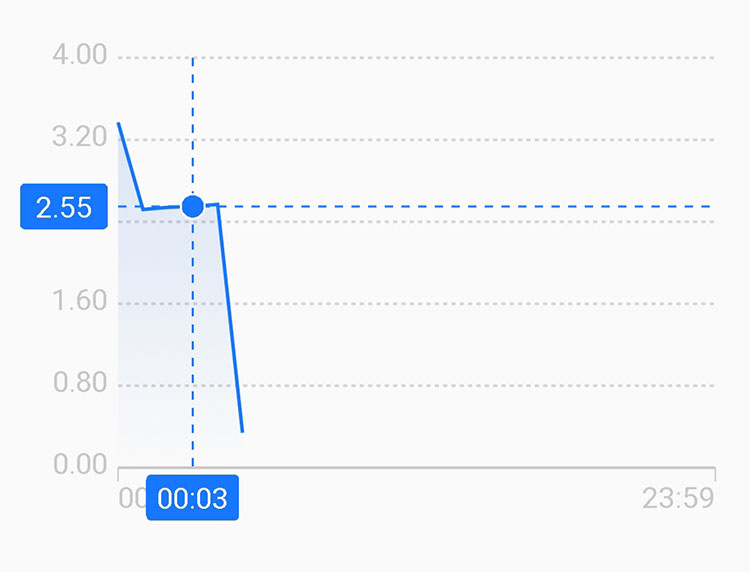
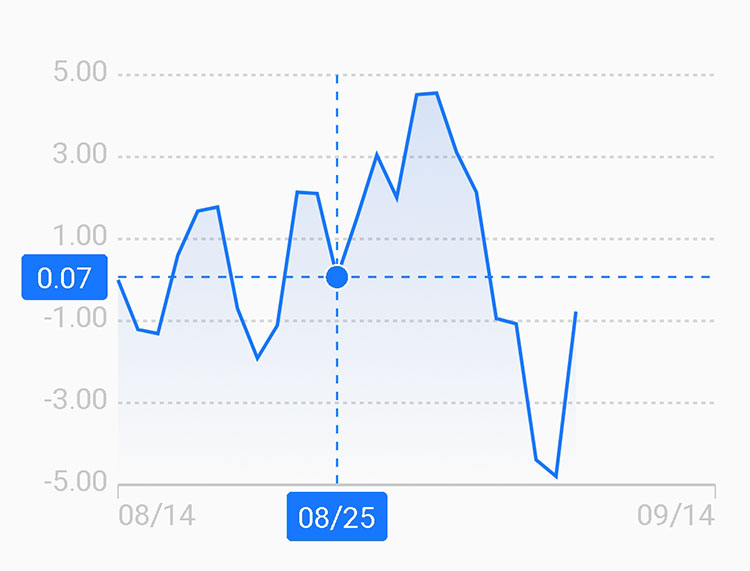
Update src

diff --git a/app/src/main/java/com/sz/brokenlinechart/MainActivity.java b/app/src/main/java/com/sz/brokenlinechart/MainActivity.java
@@ -18,11 +18,11 @@ public class MainActivity extends AppCompatActivity {
         // 决定横轴的最大的数据量
         lineChart = findViewById(R.id.line_chart);
         final List<LineChart.Data<String>> list = new LinkedList<>();
-        list.add(new LineChart.Data<>("00:00"));
-        for (int i = 1; i < 24; ++i) {
+        list.add(new LineChart.Data<>("08/14"));
+        for (int i = 1; i < 30; ++i) {
             list.add(new LineChart.Data<>(""));
         }
-        list.add(new LineChart.Data<>("23:59"));
+        list.add(new LineChart.Data<>("09/14"));
         try {
             lineChart.setXAxisBasisData(list);
         } catch (Exception e) {
@@ -31,13 +31,30 @@ public class MainActivity extends AppCompatActivity {
 
         // 决定实际显示的数据量，可动态增加
         final List<LineChart.Data<Float>> data = new LinkedList<>();
-        data.add(new LineChart.Data<Float>(3.37f, "00:00"));
-        data.add(new LineChart.Data<Float>(2.52f, "00:01"));
-
-        data.add(new LineChart.Data<Float>(2.54f, "00:02"));
-        data.add(new LineChart.Data<Float>(2.55f, "00:03"));
-        data.add(new LineChart.Data<Float>(2.57f, "00:04"));
-        data.add(new LineChart.Data<Float>(0.34f, "00:05"));
+        data.add(new LineChart.Data<Float>(0f, "08/14"));
+        data.add(new LineChart.Data<Float>(-1.21f, "08/15"));
+        data.add(new LineChart.Data<Float>(-1.31f, "08/16"));
+        data.add(new LineChart.Data<Float>(0.6f, "08/17"));
+        data.add(new LineChart.Data<Float>(1.68f, "08/18"));
+        data.add(new LineChart.Data<Float>(1.78f, "08/19"));
+        data.add(new LineChart.Data<Float>(-0.7f, "08/20"));
+        data.add(new LineChart.Data<Float>(-1.91f, "08/21"));
+        data.add(new LineChart.Data<Float>(-1.11f, "08/22"));
+        data.add(new LineChart.Data<Float>(2.14f, "08/23"));
+        data.add(new LineChart.Data<Float>(2.11f, "08/24"));
+        data.add(new LineChart.Data<Float>(0.07f, "08/25"));
+        data.add(new LineChart.Data<Float>(1.51f, "08/26"));
+        data.add(new LineChart.Data<Float>(3.05f, "08/27"));
+        data.add(new LineChart.Data<Float>(2.01f, "08/28"));
+        data.add(new LineChart.Data<Float>(4.52f, "08/29"));
+        data.add(new LineChart.Data<Float>(4.56f, "08/30"));
+        data.add(new LineChart.Data<Float>(3.12f, "08/31"));
+        data.add(new LineChart.Data<Float>(2.14f, "09/01"));
+        data.add(new LineChart.Data<Float>(-0.94f, "09/02"));
+        data.add(new LineChart.Data<Float>(-1.07f, "09/03"));
+        data.add(new LineChart.Data<Float>(-4.39f, "09/04"));
+        data.add(new LineChart.Data<Float>(-4.79f, "09/05"));
+        data.add(new LineChart.Data<Float>(-0.77f, "09/06"));
         try {
             lineChart.setData(data);
         } catch (Exception e) {

diff --git a/app/src/main/java/com/sz/brokenlinechart/LineChart.java b/app/src/main/java/com/sz/brokenlinechart/LineChart.java
@@ -504,6 +504,8 @@ public class LineChart extends View {
         }
         if (min == Integer.MAX_VALUE) {
             min = (int) DEFAULT_MIN_VALUE;
+        } else if (min < 0) {
+            min = min - 1;
         }
         return min;
     }
